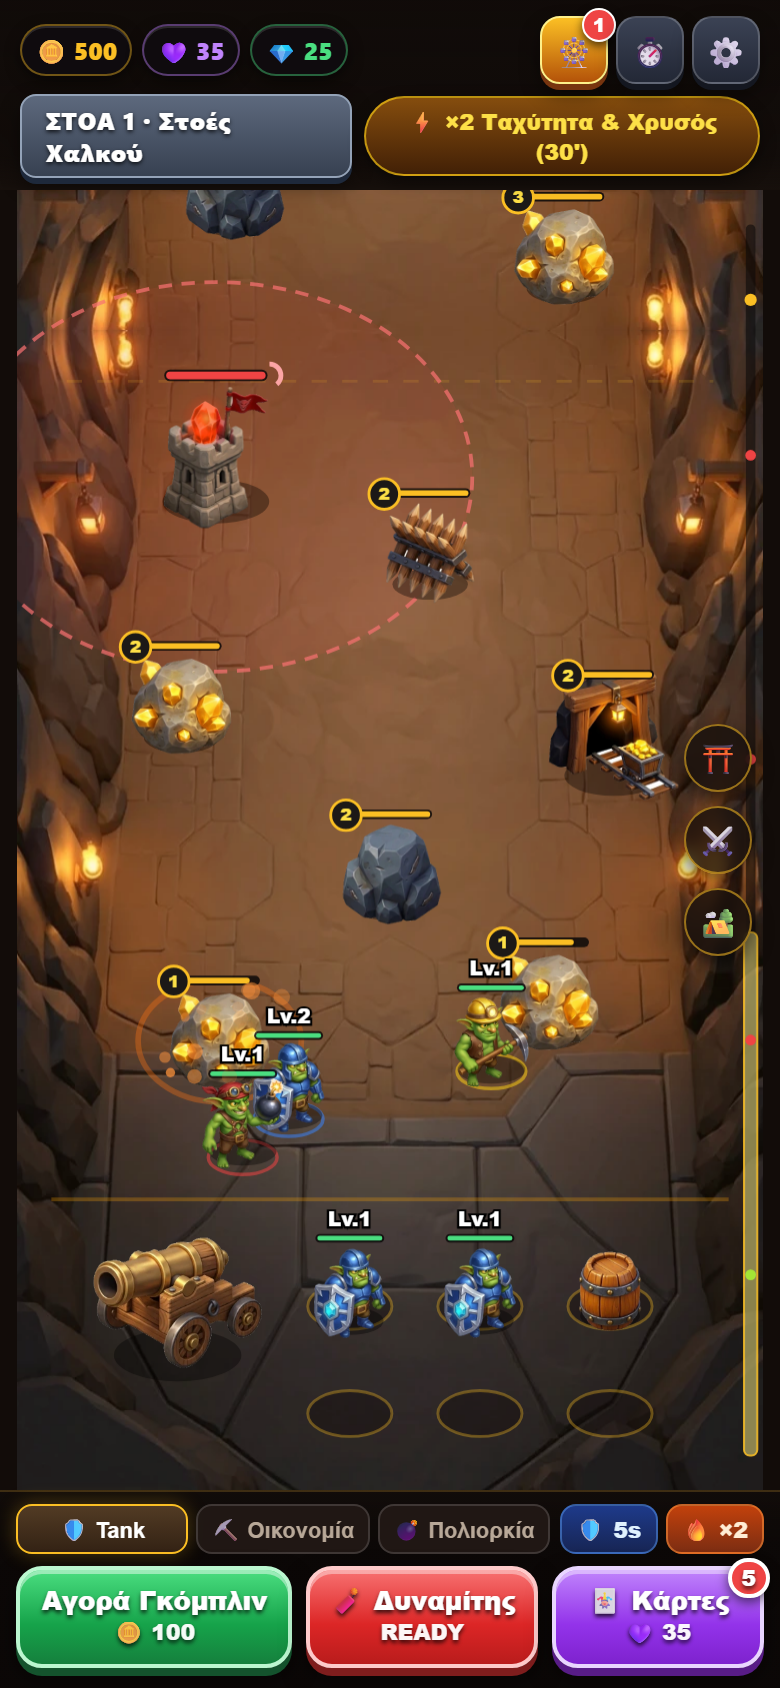
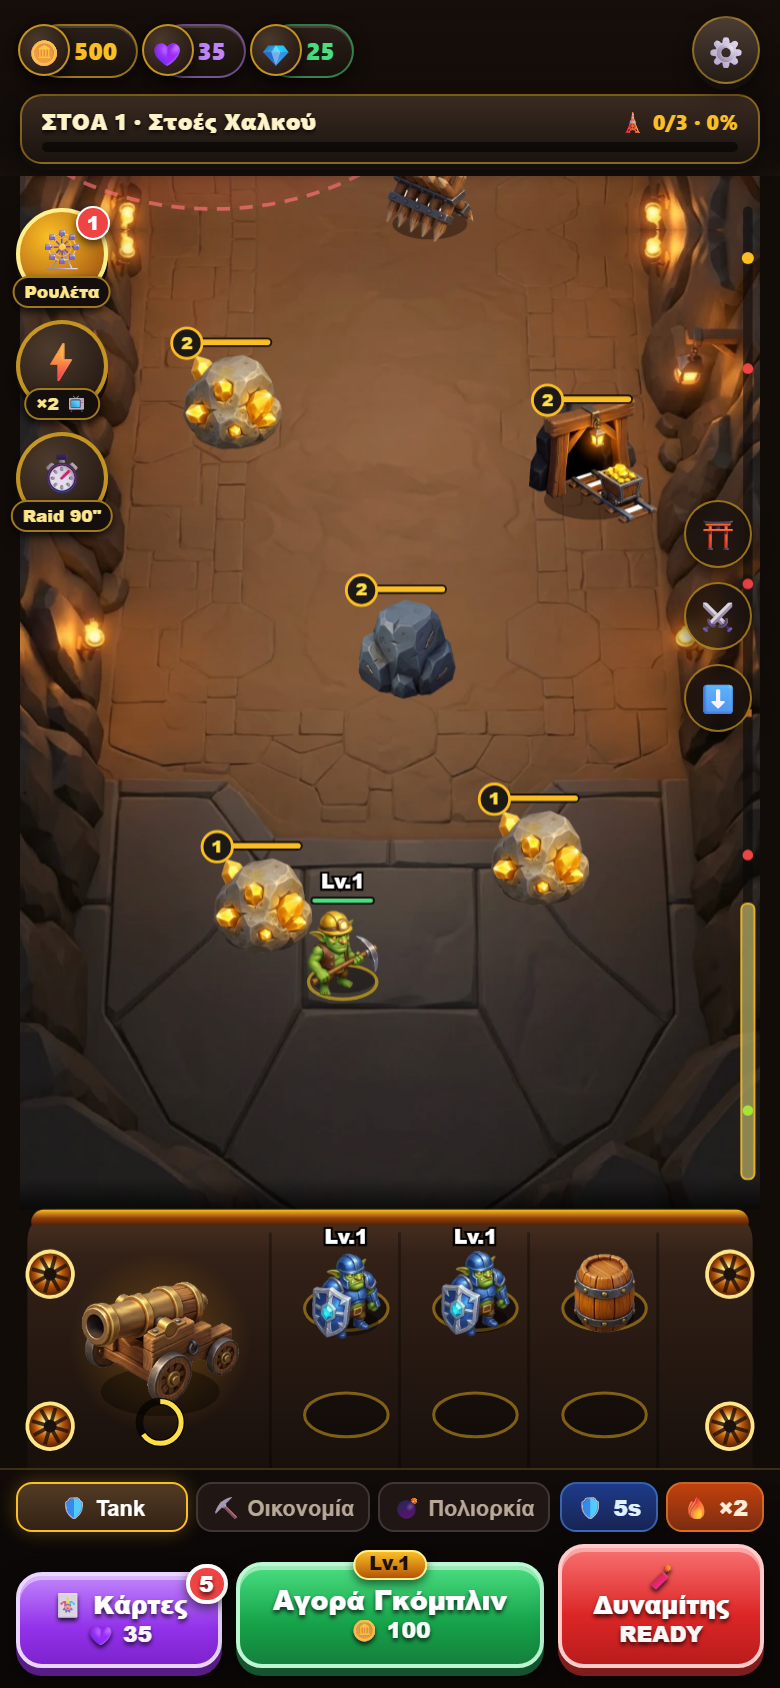
Publish v1.2.0 showcase, manifest & refreshed screenshots

diff --git a/README.md b/README.md
@@ -21,7 +21,7 @@
 </p>
 
 <p align="center">
-  <img src="https://img.shields.io/badge/Version-v1.1.1-brightgreen" alt="Version v1.1.1" />
+  <img src="https://img.shields.io/badge/Version-v1.2.0-brightgreen" alt="Version v1.2.0" />
   <img src="https://img.shields.io/badge/Package-app.jemangr.bastionbreaker-blue" alt="Package app.jemangr.bastionbreaker" />
   <img src="https://img.shields.io/badge/Platform-Android%208.0%2B-purple" alt="Android 8.0+" />
   <img src="https://img.shields.io/badge/Languages-EL%20%7C%20EN-gold" alt="Languages EL | EN" />
@@ -40,14 +40,14 @@ Always get the latest official Android APK build from this permanent link:
 
 ---
 
-## ✨ Key Highlights (`v1.1.1`)
+## ✨ Key Highlights (`v1.2.0`)
 
-- 📜 **Vertical-Scrolling Multi-Zone Caverns:** Swipe smoothly from your Siege Camp through 3 fortified subterranean zones up to the Boss Gate, with touch inertia, edge auto-scroll when dragging goblins, a vertical depth minimap, and quick-jump camera buttons (`⛩` / `⚔` / `🏕`).
-- ⛏ **Idle-Merge Mining + Barrel Cannon:** Tap supply barrels, buy units, and drag matching goblins (`Lv.N + Lv.N → Lv.N+1`) to upgrade and heal 100% HP mid-combat across deeper, longer-paced Mines.
-- 🎡 **Ad-Powered Lucky Roulette:** Claim 1 free daily spin or watch Demo Rewarded Ads to spin the 8-prize Fortune Wheel for Gold, Purple Elixir, Gems, Bonus High-Level Goblins, `×2` Boost, and Skill Refills!
-- 🛡 **3 Goblin Classes & Deeper Combat Balance:** *Shield Tank* (`Taunt`), *Miner* (`×3` excavation), and *Siege Bomber* (`×2.3` splash), fighting against guarded Boss Gates (`-50%` Gate Shield while ≥2 towers stand).
+- 🛒 **Rolling Forge Wagon (Scrolls With You!):** Your Barrel Cannon, supply barrels, and 6-slot goblin merge dock roll alongside you as you scroll up through the cavern, so recruiting & dropping goblins into battle is always one thumb away!
+- 🎨 **Sculpted Bronze & Iron Siege HUD:** Forged resource capsules, live Fortress Progress Bar, floating left event medallions (`🎡` Lucky Roulette, `⚡` ×2 Boost, `⏱` Daily Raid), raised-center Goblin Summon hero button, and right-edge Depth Minimap + quick-scroll controls (`⛩` / `⚔` / `⬇`).
+- 📜 **Deeper `1920px` 3-Zone Caverns & Checkpoint Gate:** Fight through Outer Tunnels (`y=1120..1850`), shatter the fortified **Mid-Mine Checkpoint Gate** (`y=1000`), liberate inner outposts, and topple guarded Boss Gates (`-50%` Gate Shield while ≥2 towers stand), with smooth tunnel scroll transitions between Mines!
+- 🎡 **Ad-Powered Lucky Roulette:** Claim 1 free daily spin or watch Demo Rewarded Ads from the golden `🎡` medallion to spin the 8-prize Fortune Wheel.
 - 🗼 **Tower Flip & Marching Knight Waves:** Every enemy tower (Archer, Cannon, Ice, Tesla) shoots & deploys Iron Legion Knight waves — destroy a tower to flip it emerald green into a Healing, Bombardment, Haste, or `×2` Gold support tower!
-- 🔊 **Warm Mastered Combat Audio:** Filtered & throttled Web Audio SFX with `DynamicsCompressor` limiting and cozy cavern harp music.
+- 🔊 **Studio-Warm Mastered Combat Audio:** Filtered `3800Hz` lowpass Web Audio SFX, global combat density limiter (`≤3` per `320ms`), organic foley, and cozy cavern harp music.
 - 🃏 **5 Underground Realms, Cards & Offline Idle:** Progress through *Copper Tunnels* to *Iron King's Citadel*, upgrade Cards with Purple Elixir, automate mineshafts, and earn offline gold.
 - ⏱ **Daily 90" Tower Raid:** Compete on a globally seeded daily siege layout for 🥉/🥈/🥇 medals.
 - 🔄 **Automatic 6-Hour Update Checker:** Checks `version.json` silently every 6 hours + one-tap check in Settings, with an **Our Other Apps** showcase listing all 12 live apps from [jemangr.app](https://jemangr.app).
